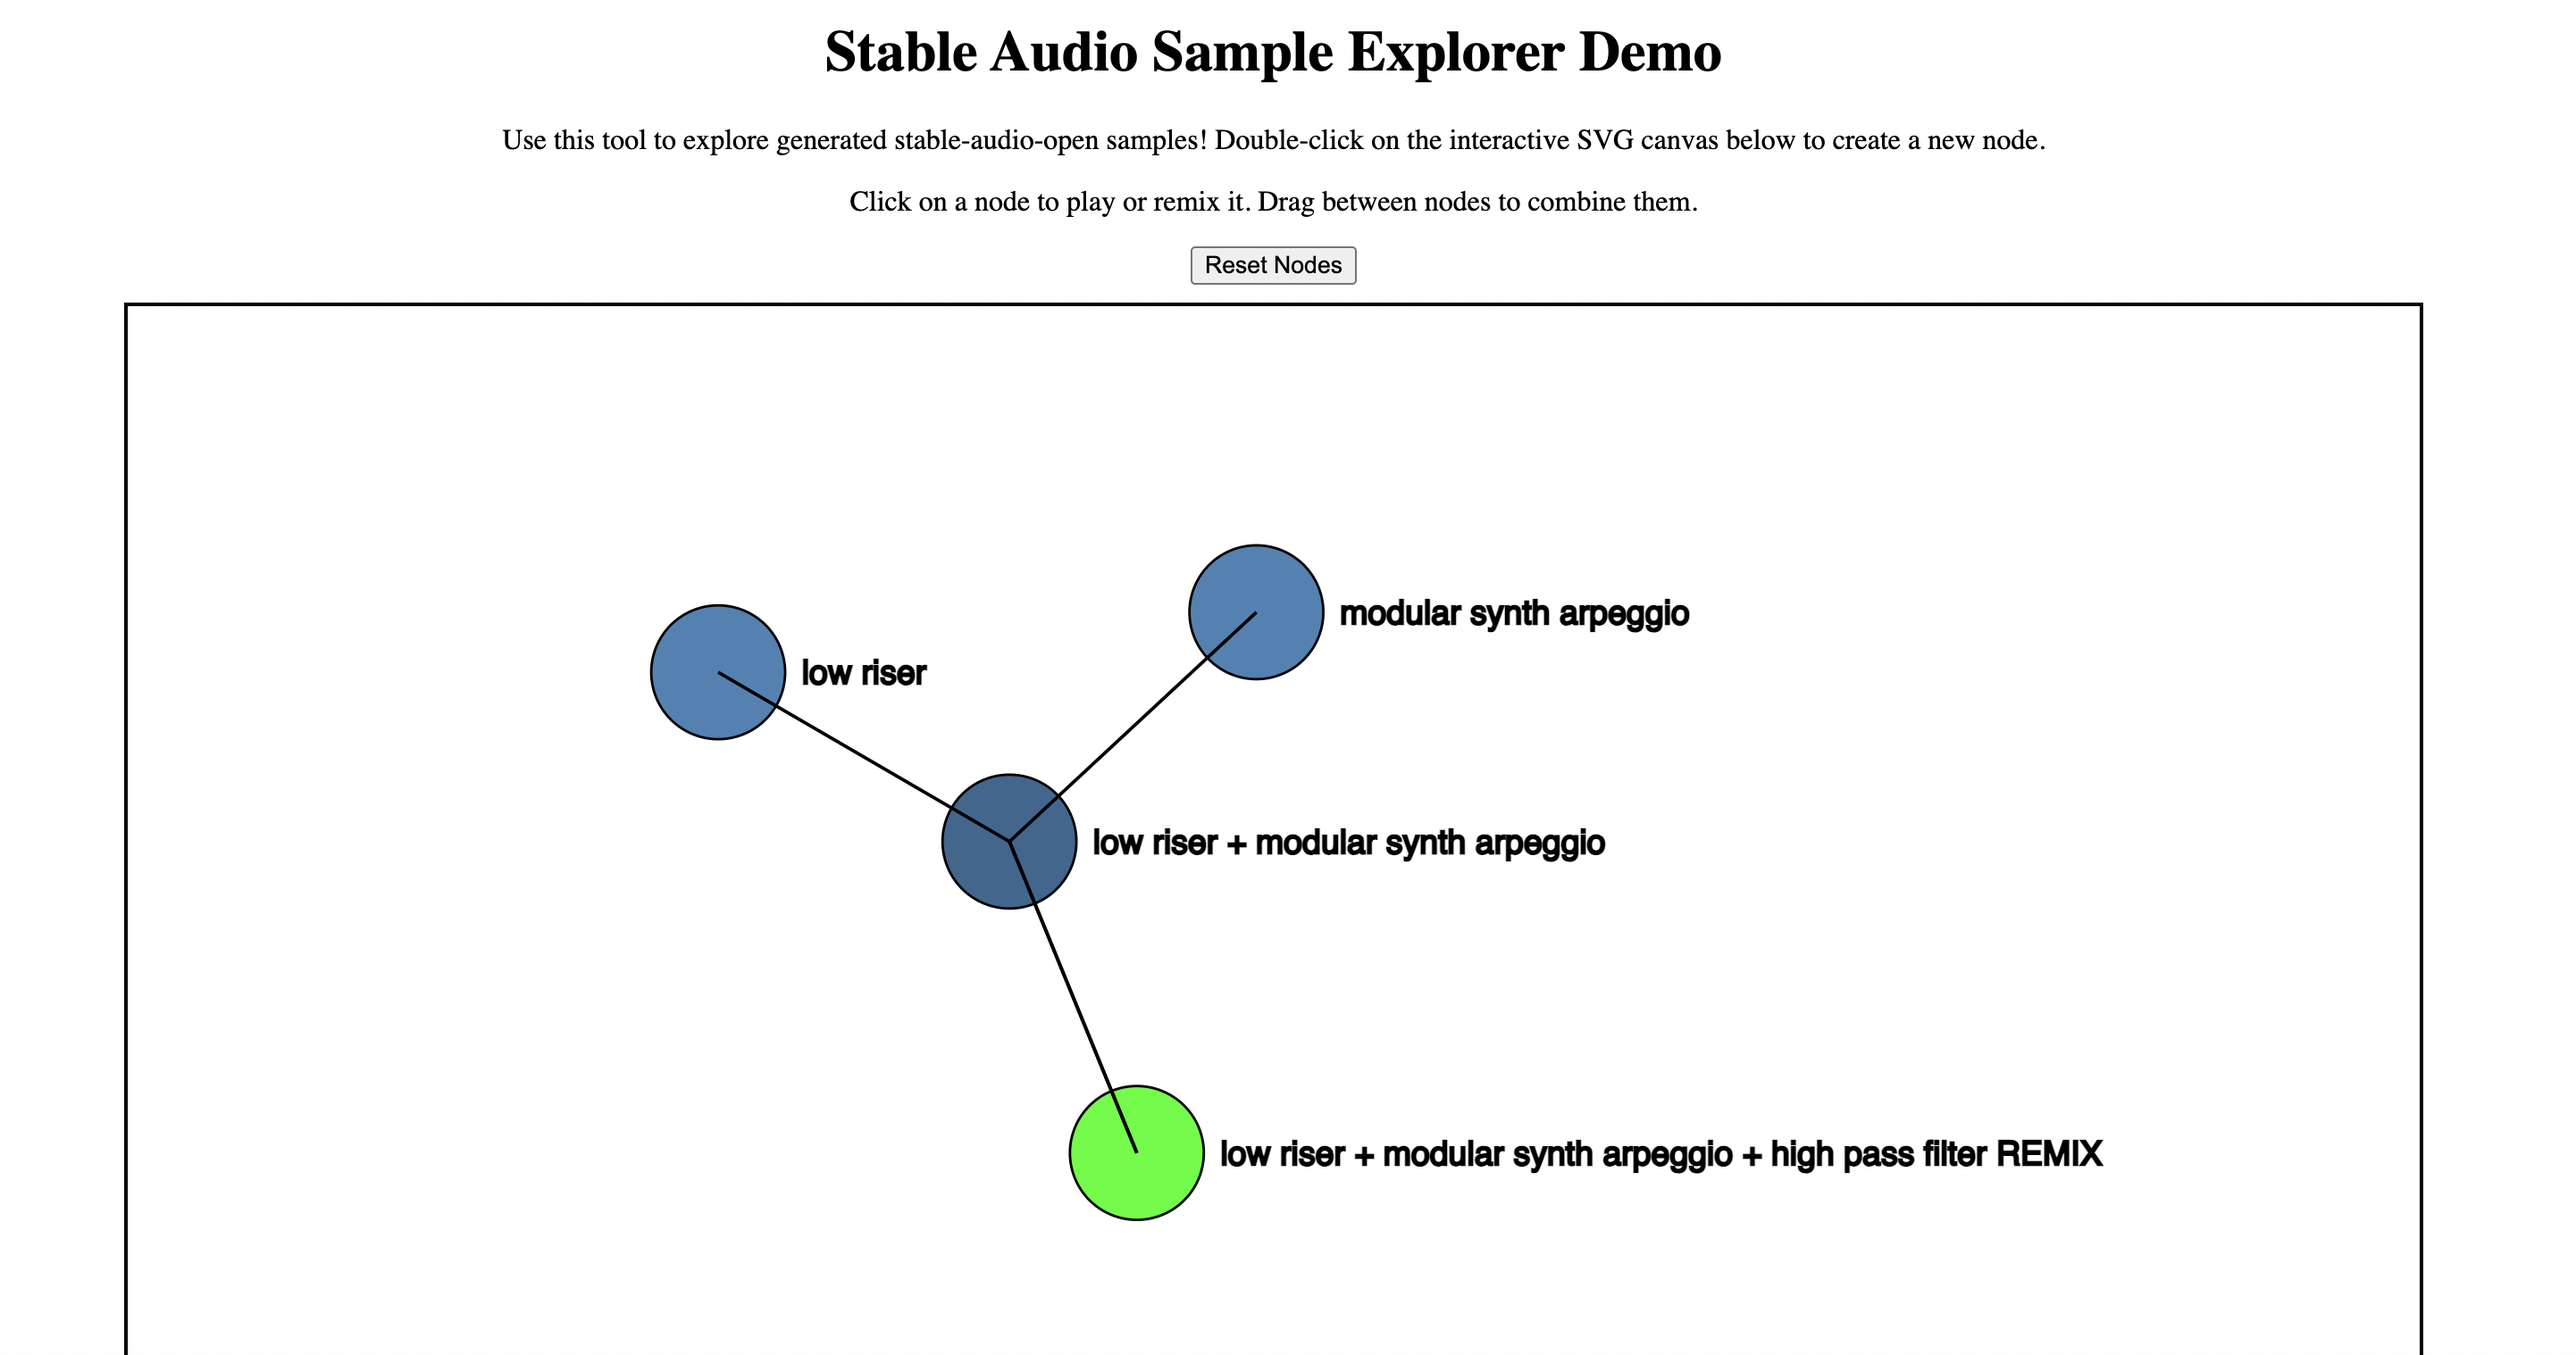
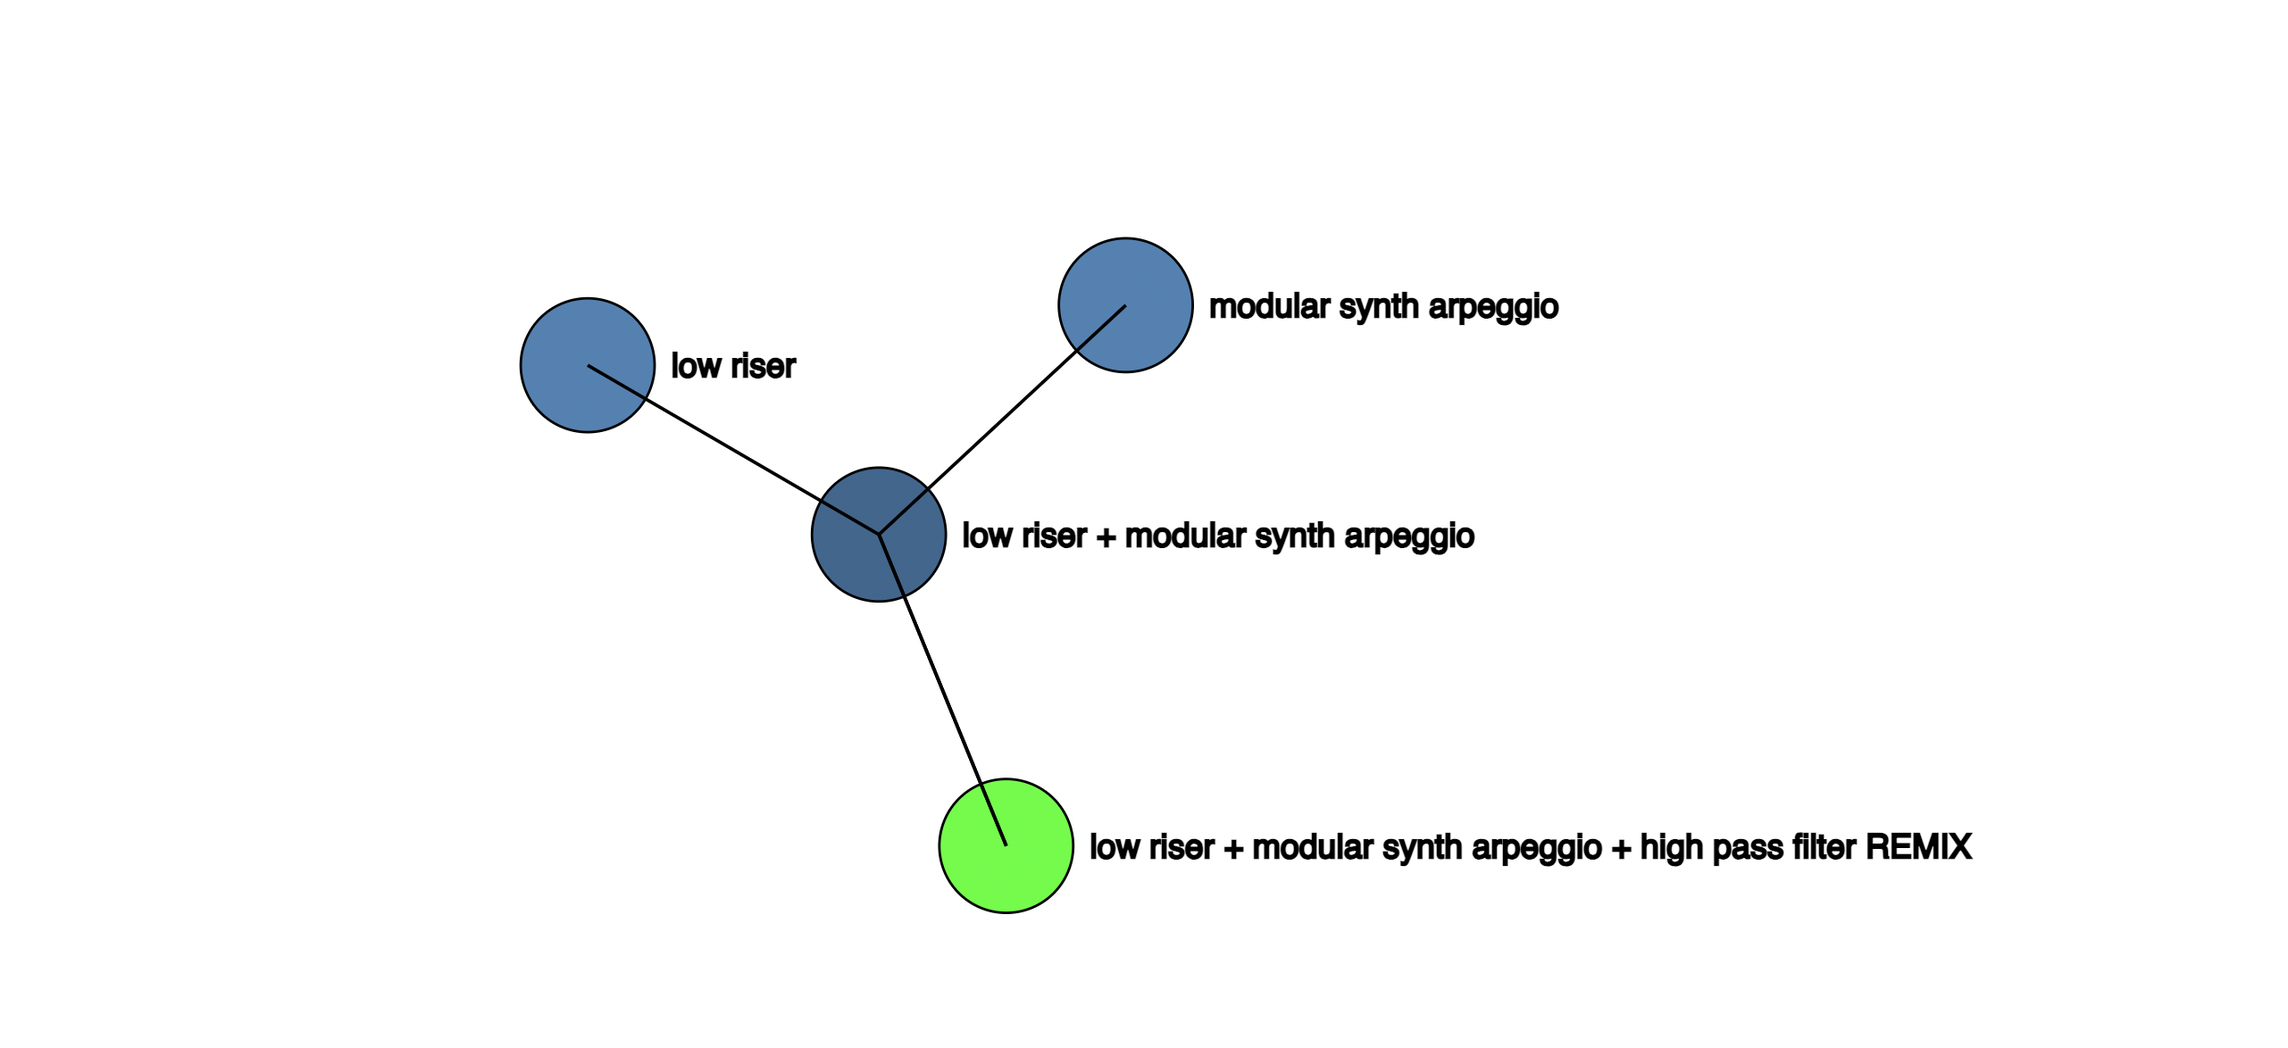
Small bugfixes and image updates

Changed region(s): [[0.2186, 0.276, 0.8743, 0.9199], [0.0625, 0.092, 0.9368, 0.368], [0.3123, 0.0307, 0.687, 0.0613]]

diff --git a/static/index.html b/static/index.html
@@ -104,7 +104,7 @@
         // Simulation setup
         const simulation = d3.forceSimulation(nodes)
             .force("link", d3.forceLink(links).id(d => d.id).distance(200))
-            .force("charge", d3.forceManyBody().strength(-100))
+            .force("charge", d3.forceManyBody().strength(-50))
             .force("center", d3.forceCenter(window.innerWidth / 2, window.innerHeight / 2))
             .on("tick", ticked);
 

diff --git a/audio_node.py b/audio_node.py
@@ -118,7 +118,12 @@ def combine_nodes(node_1, node_2, sample_size, sample_rate):
 # as well as a sample size and sample rate
 # Returns: a new child node that has been 'remixed' from the parent node's audio
 def remix_node(node, model, prompt):
-    remixed_node = AudioNode(node.prompt + " + REMIX " + prompt)
+    remix_prompt = node.prompt
+    if "REMIX" not in remix_prompt:
+        remix_prompt = remix_prompt + " + " + prompt + " REMIX"
+    else:
+        remix_prompt = remix_prompt + " + " + prompt
+    remixed_node = AudioNode(remix_prompt)
     child = format_prompt(remixed_node)
     child.generate_remixed_audio(model, prompt, node.audio)
     node.children.append(child)
